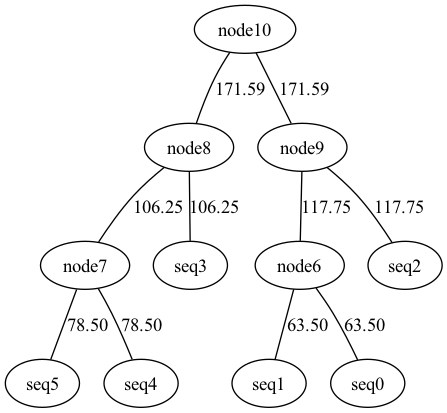
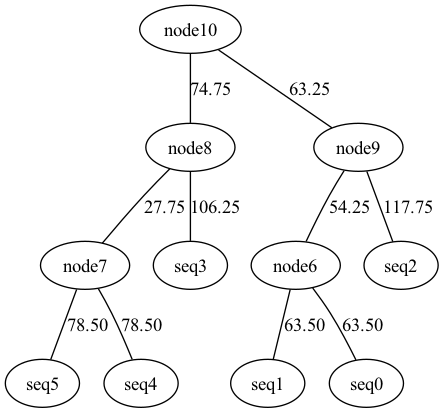
better code

diff --git a/biology/hw6/distances.py b/biology/hw6/distances.py
@@ -1,80 +1,27 @@
 import heapq
 from collections import defaultdict
-
-class Cluster:
-    def __init__(self, name, members):
-        self.name = name
-        self.members = set(members)
-
-def upgma(dist_matrix, sequence_names):
-    n = len(sequence_names)
-    clusters = {i: Cluster(sequence_names[i], [sequence_names[i]]) for i in range(n)}
-    distances = {(i, j): dist_matrix[i][j] for i in range(n) for j in range(i) if i != j}
-    heap = [(dist, i, j) for (i, j), dist in distances.items()]
-    heapq.heapify(heap)
-
-    next_cluster_id = n
-    tree = defaultdict(list)
-
-    while len(clusters) > 1:
-        while True:
-            dist, i, j = heapq.heappop(heap)
-            if i in clusters and j in clusters:
-                break
-
-        new_name = f"node{next_cluster_id}"
-        new_members = clusters[i].members.union(clusters[j].members)
-        clusters[next_cluster_id] = Cluster(new_name, new_members)
-
-        tree[new_name].append((clusters[i].name, dist / 2))
-        tree[new_name].append((clusters[j].name, dist / 2))
-
-        del clusters[i]
-        del clusters[j]
-
-        for k in clusters:
-            if k == next_cluster_id:
-                continue
-            d1 = dist_matrix[i][k] if i < k else dist_matrix[k][i]
-            d2 = dist_matrix[j][k] if j < k else dist_matrix[k][j]
-            new_dist = (d1 + d2) / 2
-            dist_matrix.append([0]*len(dist_matrix))  # Expand for new row
-            for row in dist_matrix:
-                row.append(0)
-            dist_matrix[next_cluster_id][k] = new_dist
-            dist_matrix[k][next_cluster_id] = new_dist
-            heapq.heappush(heap, (new_dist, next_cluster_id, k))
-
-        next_cluster_id += 1
-
-    return tree
-
-def dot_format(tree):
-    dot = "graph UPGMA {\n"
-    for parent, children in tree.items():
-        for child, weight in children:
-            dot += f'    "{parent}" -- "{child}" [weight={weight:.2f}, label="{weight:.2f}"];\n'
-    dot += "}"
-    return dot
+from pathlib import Path
 
 
-def parse_pir_file(filename):
+def parse_pir_file(filename: str):
+    """Return a list of aligned sequences (strings) from a PIR file."""
     sequences = []
-    with open(filename, 'r') as file:
-        current_seq = ''
-        for line in file:
-            line = line.strip()
-            if line.startswith('>'):
-                if current_seq:
-                    sequences.append(current_seq)
-                    current_seq = ''
+    current = []
+    with open(filename, "r") as fh:
+        for line in fh:
+            line = line.rstrip()
+            if line.startswith(">"):
+                if current:
+                    sequences.append("".join(current))
+                    current.clear()
             else:
-                current_seq += line
-        if current_seq:
-            sequences.append(current_seq)
+                current.append(line)
+        if current:
+            sequences.append("".join(current))
     return sequences
 
-def count_differences(seq1, seq2):
+
+def hamming(seq1, seq2):
     if len(seq1) != len(seq2):
         raise Exception("Sequences aren't same length :(")
     
@@ -85,35 +32,143 @@ def count_differences(seq1, seq2):
     
     return distance
 
-def calculate_distance(aligned_sequences):
-    num_sequences = len(aligned_sequences)
-    distances = [[0 for _ in range(num_sequences)] for _ in range(num_sequences)]
+
+def distance_matrix(seqs):
+    n = len(seqs)
+    mat = [[0] * n for _ in range(n)]
+    for i in range(n):
+        for j in range(i):
+            d = hamming(seqs[i], seqs[j])
+            mat[i][j] = mat[j][i] = d
+    return mat
 
 
-    for i in range(num_sequences):
-        for j in range(num_sequences):
-            if i == j:
+class Cluster:
+    __slots__ = ("id", "name", "size", "height", "left", "right")
+
+    def __init__(self, id_, name, size, height=0.0, left=None, right=None):
+        self.id = id_
+        self.name = name          # label used in DOT
+        self.size = size          # number of leaf members
+        self.height = height      # distance from this node to its leaves
+        self.left = left          # child Cluster or None
+        self.right = right        # child Cluster or None
+
+
+def upgma(dist_mat, leaf_names):
+    n = len(leaf_names)
+    clusters = {i: Cluster(i, leaf_names[i], 1) for i in range(n)}
+    pq = [(dist_mat[i][j], i, j) for i in range(n) for j in range(i)]
+    heapq.heapify(pq)
+
+    next_id = n
+    edges = []
+    # store all pair‐wise distances seen
+    dists = {(i, j): dist_mat[i][j] for i in range(n) for j in range(i)}
+
+    while len(clusters) > 1:
+        # find closest alive pair
+        while True:
+            dist, i, j = heapq.heappop(pq)
+            if i in clusters and j in clusters:
+                break
+
+        ci, cj = clusters.pop(i), clusters.pop(j)
+        new_h = dist / 2.0
+        parent = Cluster(next_id, f"node{next_id}", ci.size + cj.size,
+                         height=new_h, left=ci, right=cj)
+        clusters[next_id] = parent
+
+        # record branches
+        edges.append((parent.name, ci.name, new_h - ci.height))
+        edges.append((parent.name, cj.name, new_h - cj.height))
+
+        # update distances to the new cluster
+        for k, ck in clusters.items():
+            if k == next_id:
                 continue
-            seq1 = aligned_sequences[i]
-            seq2 = aligned_sequences[j]
+            dik = dists[(max(i, k), min(i, k))]
+            djk = dists[(max(j, k), min(j, k))]
+            new_dist = (dik * ci.size + djk * cj.size) / (ci.size + cj.size)
+            dists[(max(next_id, k), min(next_id, k))] = new_dist
+            heapq.heappush(pq, (new_dist, min(next_id, k), max(next_id, k)))
 
-            distances[i][j] = count_differences(seq1, seq2)
+        next_id += 1
+
+    root = next(iter(clusters.values()))
+    return edges
+
+
+def print_full_distance_matrix_from_edges(edges, leaf_names):
+    # 1) figure out internal nodes in numeric order
+    internals = {
+        parent for parent,_,_ in edges
+        if parent not in leaf_names
+    }
+    # sort by the number after "node"
+    internals = sorted(internals, key=lambda x: int(x.replace("node","")))
     
-    return distances
+    # 2) build full label list
+    labels = leaf_names + internals
     
+    # 3) build adjacency list
+    adj = {lbl: [] for lbl in labels}
+    for p, c, w in edges:
+        adj[p].append((c, w))
+        adj[c].append((p, w))
+    
+    # 4) for each label, do a DFS/BFS to accumulate path‐lengths
+    full_dist = {lbl: {} for lbl in labels}
+    for src in labels:
+        dist = {src: 0.0}
+        stack = [src]
+        while stack:
+            u = stack.pop()
+            for v, w in adj[u]:
+                if v not in dist:
+                    dist[v] = dist[u] + w
+                    stack.append(v)
+        full_dist[src] = dist
+    
+    # 5) print a tab-delimited matrix
+    print("\t" + "\t".join(labels))
+    for i, src in enumerate(labels):
+        row = [f"{full_dist[src][dst]:.2f}" for dst in labels]
+        print(f"{src}\t" + "\t".join(row))
+
+
+
+def edges_to_dot(edges):
+    """edges: list of (parent_name, child_name, branch_len)"""
+    lines = ["graph UPGMA {"]
+    for parent, child, w in edges:
+        lines.append(f'    "{parent}" -- "{child}" '
+                     f'[weight={w:.5f}, label="{w:.2f}"];')
+    lines.append("}")
+    return "\n".join(lines)
+
 
 def main():
-    filename = 'msa.pir'
-    aligned_sequences = parse_pir_file(filename)
-    sequence_names = [f"seq{i}" for i in range(len(aligned_sequences))]
+    pir_file = "msa.pir"
 
-    distances = calculate_distance(aligned_sequences)
-    
+    seqs = parse_pir_file(pir_file)
+    names = [f"seq{i}" for i in range(len(seqs))]
+    mat = distance_matrix(seqs)
+    # print(mat)
+    print("Original distance matrix:")
+    for row in mat:
+        print(row)
+        
+    edge_list = upgma(mat, names)
 
-    tree = upgma(distances, sequence_names)
-    dot = dot_format(tree)
+    print("\nFull UPGMA distance matrix (including internal nodes):")
+    print_full_distance_matrix_from_edges(edge_list, names)
+
 
     with open("tree.dot", "w") as f:
-        f.write(dot)
+        f.write(edges_to_dot(edge_list))
+    print("DOT file written to tree.dot")
+
+
 if __name__ == "__main__":
     main()

diff --git a/biology/hw6/answers.md b/biology/hw6/answers.md
@@ -1,0 +1,35 @@
+**Original distance matrix:**
+[0, 127, 245, 310, 405, 411]
+[127, 0, 226, 291, 385, 398]
+[245, 226, 0, 287, 386, 385]
+[310, 291, 287, 0, 211, 214]
+[405, 385, 386, 211, 0, 157]
+[411, 398, 385, 214, 157, 0]
+
+**Full UPGMA distance matrix:**
+	seq0	seq1	seq2	seq3	seq4	seq5	node6	node7	node8	node9	node10
+seq0	0.00	127.00	235.50	362.00	362.00	362.00	63.50	283.50	255.75	117.75	181.00
+seq1	127.00	0.00	235.50	362.00	362.00	362.00	63.50	283.50	255.75	117.75	181.00
+seq2	235.50	235.50	0.00	362.00	362.00	362.00	172.00	283.50	255.75	117.75	181.00
+seq3	362.00	362.00	362.00	0.00	212.50	212.50	298.50	134.00	106.25	244.25	181.00
+seq4	362.00	362.00	362.00	212.50	0.00	157.00	298.50	78.50	106.25	244.25	181.00
+seq5	362.00	362.00	362.00	212.50	157.00	0.00	298.50	78.50	106.25	244.25	181.00
+node6	63.50	63.50	172.00	298.50	298.50	298.50	0.00	220.00	192.25	54.25	117.50
+node7	283.50	283.50	283.50	134.00	78.50	78.50	220.00	0.00	27.75	165.75	102.50
+node8	255.75	255.75	255.75	106.25	106.25	106.25	192.25	27.75	0.00	138.00	74.75
+node9	117.75	117.75	117.75	244.25	244.25	244.25	54.25	165.75	138.00	0.00	63.25
+node10	181.00	181.00	181.00	181.00	181.00	181.00	117.50	102.50	74.75	63.25	0.00
+
+**dot representation:**
+graph UPGMA {
+    "node6" -- "seq1" [weight=63.50000, label="63.50"];
+    "node6" -- "seq0" [weight=63.50000, label="63.50"];
+    "node7" -- "seq5" [weight=78.50000, label="78.50"];
+    "node7" -- "seq4" [weight=78.50000, label="78.50"];
+    "node8" -- "seq3" [weight=106.25000, label="106.25"];
+    "node8" -- "node7" [weight=27.75000, label="27.75"];
+    "node9" -- "seq2" [weight=117.75000, label="117.75"];
+    "node9" -- "node6" [weight=54.25000, label="54.25"];
+    "node10" -- "node8" [weight=74.75000, label="74.75"];
+    "node10" -- "node9" [weight=63.25000, label="63.25"];
+}
